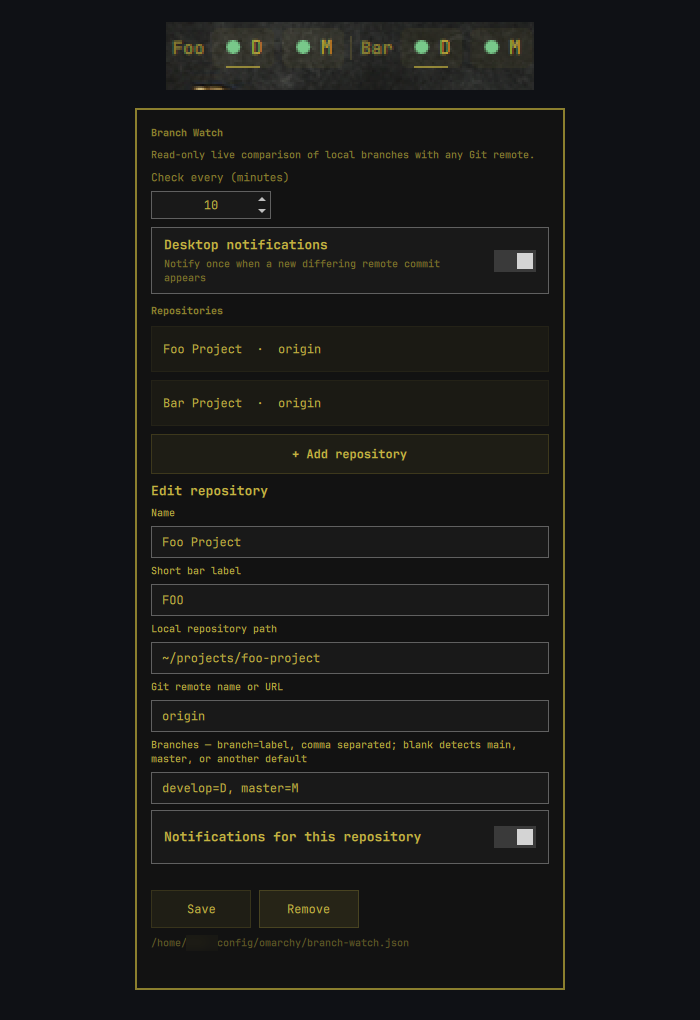
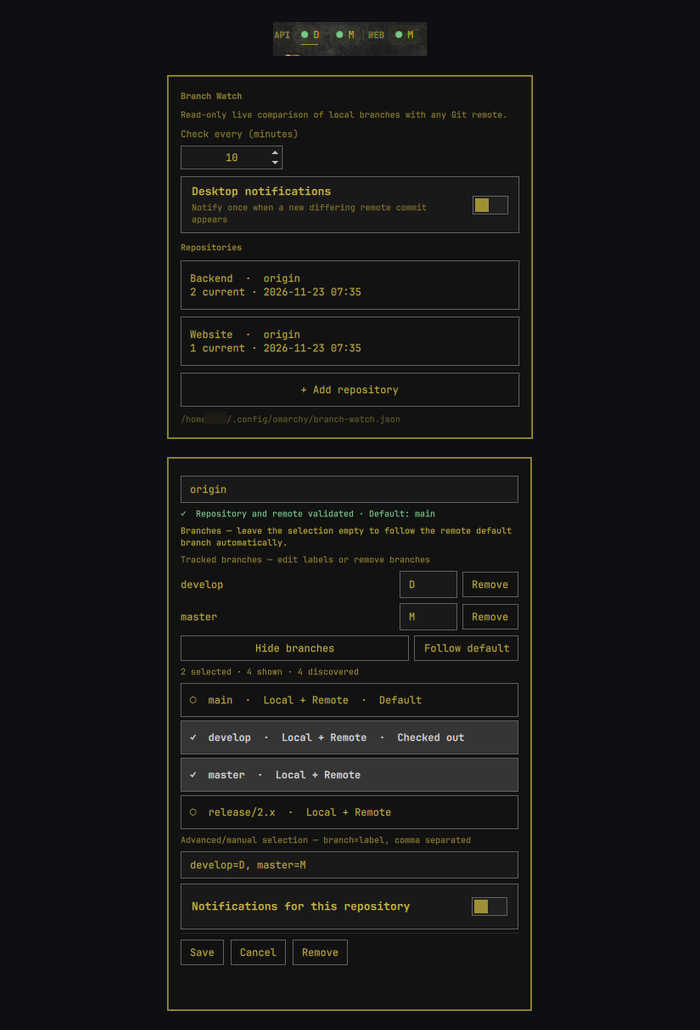
Refresh documentation and screenshots

diff --git a/Panel.qml b/Panel.qml
@@ -1187,7 +1187,7 @@ Panel {
               }
               Text {
                 visible: form.selectedBranches().length > 0
-                text: "Tracked branches — select an entry to remove it"
+                text: "Tracked branches — edit labels or remove branches"
                 textFormat: Text.PlainText
                 width: parent.width
                 color: Util.alpha(root.fg, 0.7)

diff --git a/README.md b/README.md
@@ -4,12 +4,14 @@ Branch Watch is a configurable Git branch monitor for the Omarchy bar. It
 compares local branch commits with live refs on GitHub, GitLab, or any regular
 Git remote without fetching or changing the repositories.
 
-![Branch Watch bar widget and complete repository setup panel using dummy project data](preview.png)
+![Branch Watch bar widget, repository overview, and branch discovery using generic demo data](preview.png)
 
 Each repository and branch can have a short bar label. The checked-out branch
 is underlined. Hovering a branch shows its full repository, branch, remote,
 checkout, status, and check time. Left-click refreshes; right-click opens the
 configuration panel.
+
+![Compact Branch Watch bar widget with generic repository and branch labels](docs/bar.png)
 
 ## Who it is for
 
@@ -36,8 +38,11 @@ behind its live remote and can notify you when a new remote commit appears.
 - Any branch name, including `main`, `master`, `develop`, and `release/*`
 - Automatic remote default-branch detection
 - Interactive discovery and selection of local and live remote branches
+- Collapsible, filterable branch results with clear selected-state markers
 - Editable short labels and one-click removal for tracked branches
-- Repository validation, unsaved-change protection, and compact status summaries
+- Repository and remote validation before saving
+- Unsaved-change and concurrent-edit protection
+- Compact per-repository status summaries and fixed editor actions
 - Multiple repositories and branches in one compact bar widget
 - Native folder picker for selecting local repositories
 - Desktop notifications for newly observed remote changes
@@ -92,7 +97,8 @@ omarchy restart shell
 5. Keep the remote as `origin`, or enter another configured remote or URL.
 6. Select **Discover branches** to choose from local and live remote branches,
    or leave the selection empty to follow the remote default automatically.
-7. Keep notifications enabled if desired and select **Save**.
+7. Keep notifications enabled if desired and select **Save**. Existing entries
+   use **Save changes**.
 
 Example for a repository whose real branches are `develop` and `master`:
 
@@ -115,7 +121,24 @@ Entering `D=develop` would instead try to find a real remote branch named `D`.
 
 ## Configuration
 
-![Complete Branch Watch repository configuration using dummy project data](docs/setup.png)
+### Repository overview
+
+![Branch Watch repository overview with generic demo data](docs/overview.png)
+
+Each repository card shows its remote and the result of the latest check, for
+example:
+
+```text
+Backend · origin
+2 current · 2026-11-23 07:35
+```
+
+Possible summary counters are **current**, **behind**, **different**,
+**missing**, and **error**. Select a card to edit it.
+
+### Repository editor
+
+![Top of the Branch Watch repository editor using generic demo data](docs/setup.png)
 
 The panel writes a transparent JSON file:
 
@@ -175,6 +198,8 @@ the discovery list are escaped automatically.
 
 ### Discovering branches
 
+![Validated repository and compact branch discovery list with main, develop, master, and release branches](docs/discovery.png)
+
 The repository editor can query the selected working tree and remote, then
 show up to 200 available branches. Each entry indicates whether it exists
 locally, remotely, or in both places, and marks the checked-out and default
@@ -185,12 +210,22 @@ can be removed without changing the advanced field manually.
 
 Discovery runs only when **Discover branches** is selected. It performs one
 bounded `git ls-remote` query and does not fetch or change the repository. The
+same button becomes **Hide branches** while the list is open. After closing it,
+**Show branches** reopens the cached result without another remote query. The
 advanced `branch=label` field remains available for manual editing.
 
 A successful discovery also validates the local working tree and remote and
-shows the detected default branch. Repository cards summarize their latest
-current, behind, different, missing, and error counts. Unsaved editor changes
-must be explicitly discarded before the panel closes.
+shows the detected default branch. **Follow default** clears the explicit
+selection and lets Branch Watch detect that branch automatically.
+
+The editor keeps **Save changes**, **Cancel**, and **Remove** available in a
+fixed footer. Unsaved changes must be explicitly discarded before closing or
+leaving the editor. If the same repository configuration changes elsewhere
+while it is open, the stale form cannot overwrite or remove the newer entry.
+
+The screenshots use local generic demo repositories. Ordinary Git names such as
+`main`, `develop`, `master`, and `release/2.x` remain visible; only the local
+username in the configuration path is blurred.
 
 ### Choosing the local path
 
